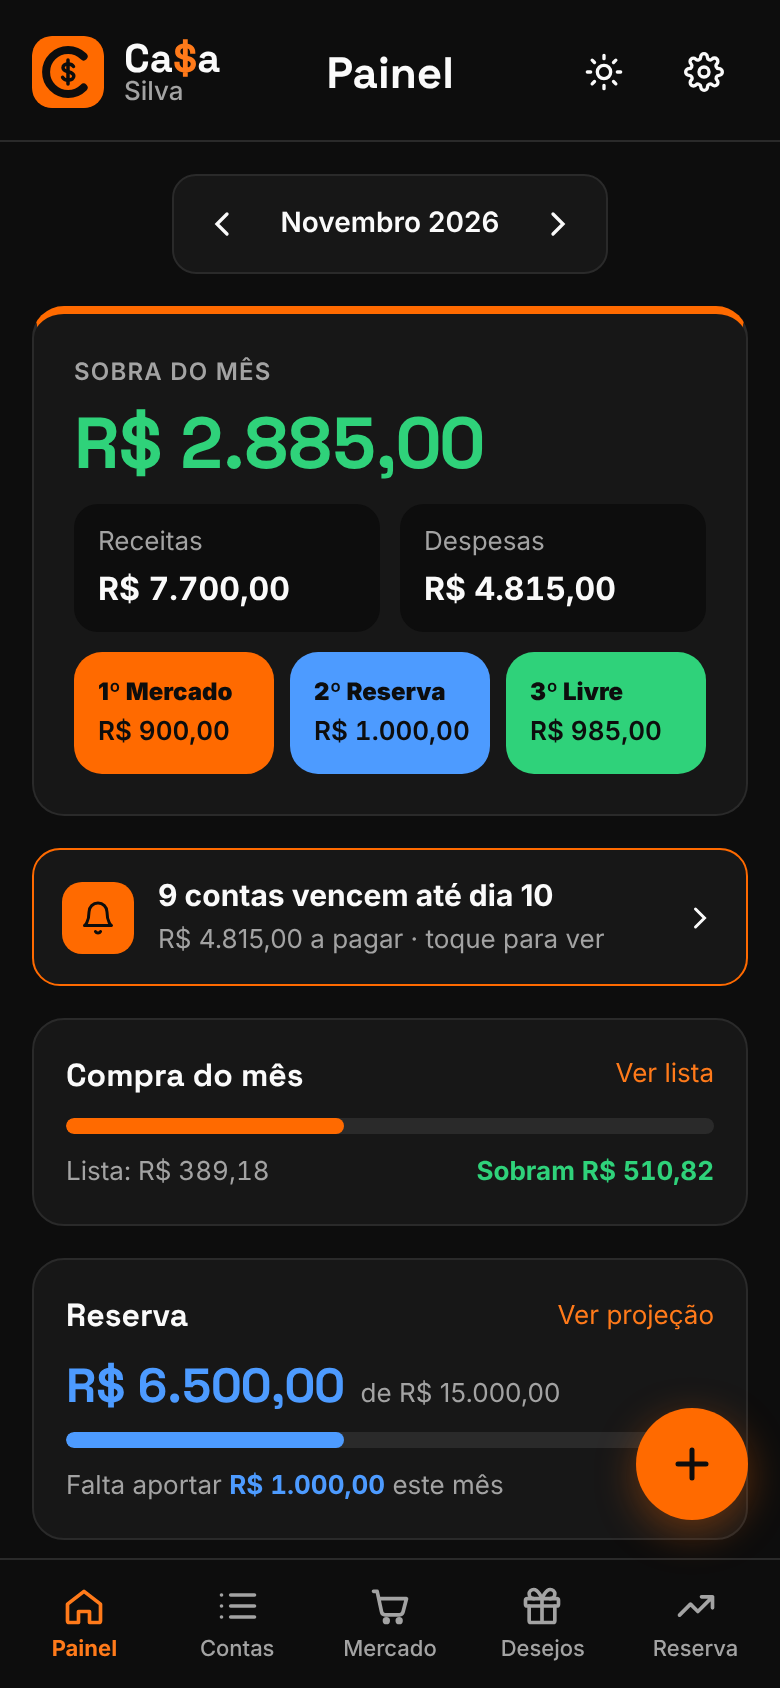
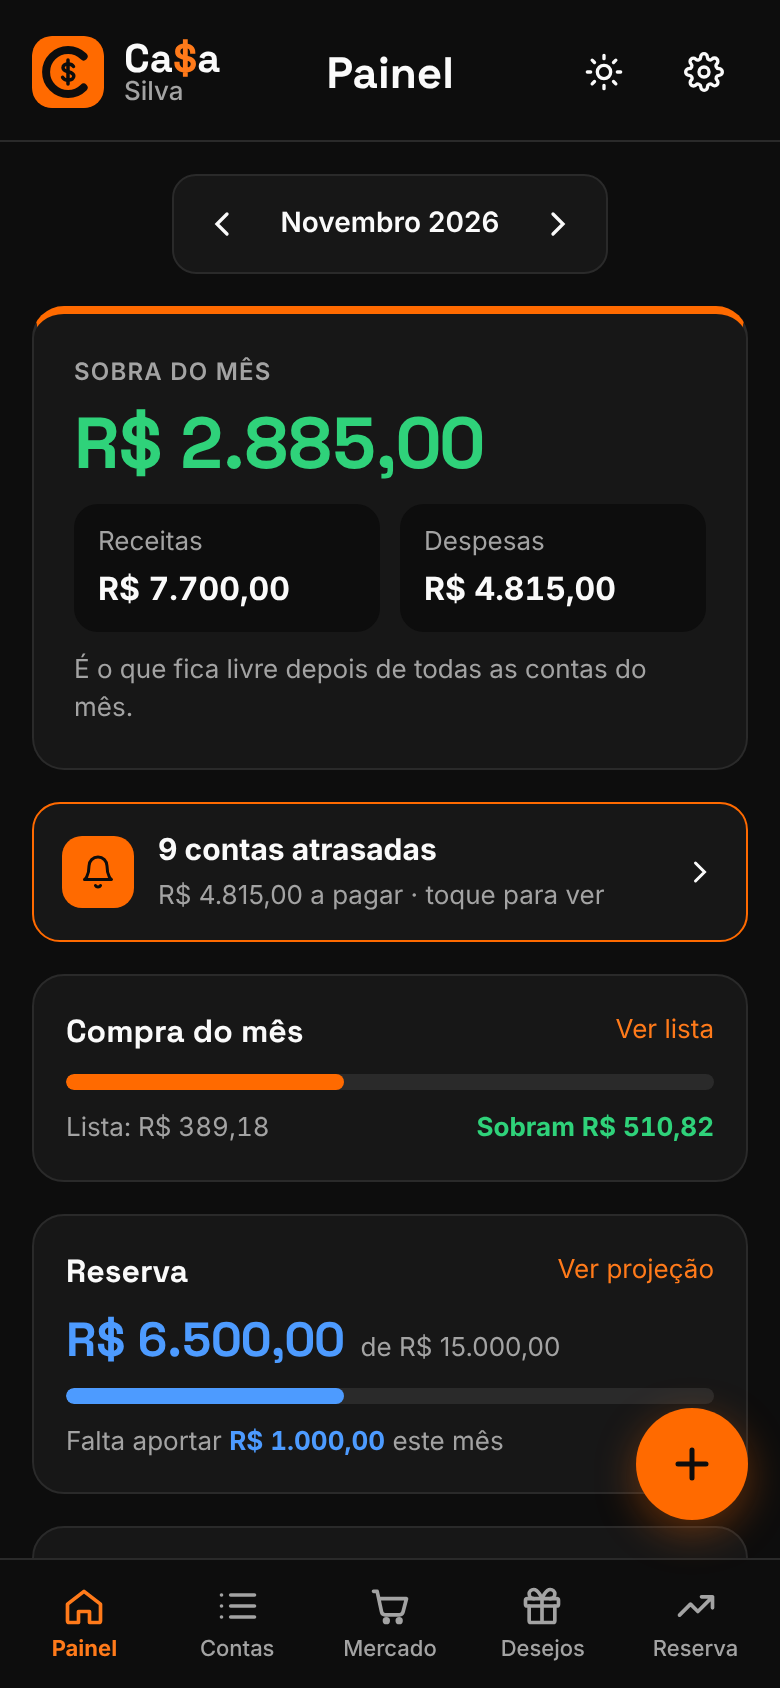
Painel e desejos: não descontar mercado e reserva de novo
Mercado e aporte na reserva passam a ser lançados como contas fixas,
então a sobra do mês já é o valor livre.

Claude-Session: https://claude.ai/code/session_01TarmwYJmGaFE76QnseJHn3

diff --git a/js/app.js b/js/app.js
@@ -523,7 +523,6 @@
   function viewPainel() {
     const r = resumo(S.mes);
     const mt = mercadoTotais(); const rv = reservaTotais();
-    const livre = r.sobra - mt.limite - rv.plano;
     const atual = S.mes === ym();
     let alerta = '';
     const naoPagas = r.des.filter((c) => !c.pago);
@@ -564,11 +563,7 @@
           <div class="pill"><span class="small muted">Receitas</span><span class="v num">${brl(r.R)}</span></div>
           <div class="pill"><span class="small muted">Despesas</span><span class="v num">${brl(r.D)}</span></div>
         </div>
-        <div class="steps" aria-label="Divisão da sobra">
-          <div class="st-orange"><b>1º Mercado</b><span class="num">${brl(mt.limite)}</span></div>
-          <div class="st-blue"><b>2º Reserva</b><span class="num">${brl(rv.plano)}</span></div>
-          <div class="${livre >= 0 ? 'st-green' : 'st-red'}"><b>${livre >= 0 ? '3º Livre' : 'Faltam'}</b><span class="num">${brl(Math.abs(livre))}</span></div>
-        </div>
+        <span class="small muted">${r.sobra >= 0 ? 'É o que fica livre depois de todas as contas do mês.' : 'As despesas do mês estão maiores que as receitas.'}</span>
       </section>
       <div style="display:flex;flex-direction:column;gap:16px;min-width:0">
         ${alerta}
@@ -732,13 +727,13 @@
       .sort((a, b) => (PRIO[a.prioridade]?.[1] ?? 1) - (PRIO[b.prioridade]?.[1] ?? 1) || (a.ordem || 0) - (b.ordem || 0) || String(a.criado_em).localeCompare(String(b.criado_em)));
   }
   function livrePorMes() {
-    // primeiro mês (de hoje até 6 meses à frente) em que sobra dinheiro livre depois do mercado e da reserva
-    const fixo = (Number(S.familia?.limite_mercado) || 0) + (Number(S.familia?.aporte_mensal) || 0);
+    // primeiro mês (de hoje até 6 meses à frente) em que sobra dinheiro depois de todas as contas
+    // (mercado e aporte na reserva entram como contas fixas, então não são descontados de novo)
     let m = ym();
     for (let i = 0; i < 7; i++, m = addMonths(m, 1)) {
       const r = resumo(m);
       if (!r.l.length) continue;
-      const livre = r.sobra - fixo;
+      const livre = r.sobra;
       if (livre > 0) return { livre, mes: m, atual: i === 0 };
     }
     return { livre: 0, mes: ym(), atual: true };
@@ -746,10 +741,10 @@
   function mesesPara(valor) {
     const { livre, mes, atual } = livrePorMes(); const v = Number(valor) || 0;
     if (!v) return { n: 0, txt: 'Sem valor definido' };
-    if (livre <= 0) return { n: null, txt: 'Nos próximos meses não sobra dinheiro livre depois do mercado e da reserva' };
+    if (livre <= 0) return { n: null, txt: 'Nos próximos meses não sobra dinheiro depois das contas' };
     const n = Math.ceil(v / livre);
     const quando = atual ? 'do mês' : `de ${MESES[Number(mes.slice(5)) - 1]} em diante`;
-    return { n, txt: n <= 1 ? `<b class="green">Cabe no livre ${quando}</b> (${brl(livre)})` : `Juntando o livre ${quando} (${brl(livre)}/mês), dá em <b class="green">${n} meses</b>` };
+    return { n, txt: n <= 1 ? `<b class="green">Cabe na sobra ${quando}</b> (${brl(livre)})` : `Juntando a sobra ${quando} (${brl(livre)}/mês), dá em <b class="green">${n} meses</b>` };
   }
   const linkSeguro = (u) => { try { const x = new URL(u); return /^https?:$/.test(x.protocol) ? x.href : ''; } catch { return ''; } };
   function viewDesejos() {
@@ -787,7 +782,7 @@
         <div class="card"><span class="small muted">Total</span><span class="mid num">${brl(total)}</span></div>
       </div>
       <div class="list">${pend.map(item).join('') || `<div class="card empty"><span>Nenhum desejo na lista ainda. Anote o que vocês querem comprar e em que ordem.</span><button class="btn primary" data-act="novo-desejo">${I.plus} Adicionar desejo</button></div>`}</div>
-      <p class="hint">Toque no quadrado quando comprar. Use as setas para mudar a ordem dentro da mesma prioridade. "Livre do mês" é o que sobra depois do mercado e do aporte na reserva.</p>
+      <p class="hint">Toque no quadrado quando comprar. Use as setas para mudar a ordem dentro da mesma prioridade. "Sobra do mês" é o que fica depois de todas as contas.</p>
       ${comprados.length ? `<section class="card"><h2>Já compramos</h2><div class="list">${comprados.map((d) => `<div class="item done">
         <button class="check on" data-act="desejo-comprado" data-id="${d.id}" aria-label="Voltar para a lista: ${h(d.nome)}">${I.check}</button>
         <div class="body" data-act="editar-desejo" data-id="${d.id}" role="button" tabindex="0"><span class="title">${h(d.nome)}</span><span class="sub">${d.comprado_em ? 'Comprado em ' + dateBR(d.comprado_em) : 'Comprado'}</span></div>
@@ -854,14 +849,6 @@
         <span class="small muted">${quando ? `Chega na meta em <b class="blue">${monthLabel(quando.m).toLowerCase()}</b>.` : 'Com esse aporte, a meta passa de 12 meses.'} Estimativa bruta, antes do imposto.</span>
       </section>
     </div>
-    <section class="card">
-      <h2>Regra do salário</h2>
-      <div class="steps">
-        <div class="st-orange"><b>1º</b>Separar o mercado</div>
-        <div class="st-blue"><b>2º</b>Aporte na reserva</div>
-        <div class="st-green"><b>3º</b>O resto é livre</div>
-      </div>
-    </section>
     <section class="card"><h2>Onde está o dinheiro</h2><div class="list">${apls || '<span class="muted small">Nenhuma aplicação ainda. Toque em "Nova aplicação".</span>'}</div>
       <span class="hint">Toque numa aplicação para conferir o saldo pelo extrato do banco.</span></section>
     ${aportes ? `<section class="card"><h2>Últimos aportes</h2><div class="list">${aportes}</div></section>` : ''}`;

diff --git a/sw.js b/sw.js
@@ -1,6 +1,6 @@
 // Ca$a — service worker: abre rápido e funciona mesmo com internet fraca.
 // Dados (Supabase e Banco Central) sempre vêm da rede.
-const CACHE = 'casa-v6';
+const CACHE = 'casa-v7';
 const SHELL = ['./', 'index.html', 'css/styles.css', 'js/app.js', 'js/config.js', 'manifest.webmanifest',
   'privacidade.html', 'icons/icon.svg', 'icons/icon-192.png', 'icons/icon-512.png', 'icons/apple-touch-icon.png', 'icons/favicon-32.png', 'favicon.ico'];
 
